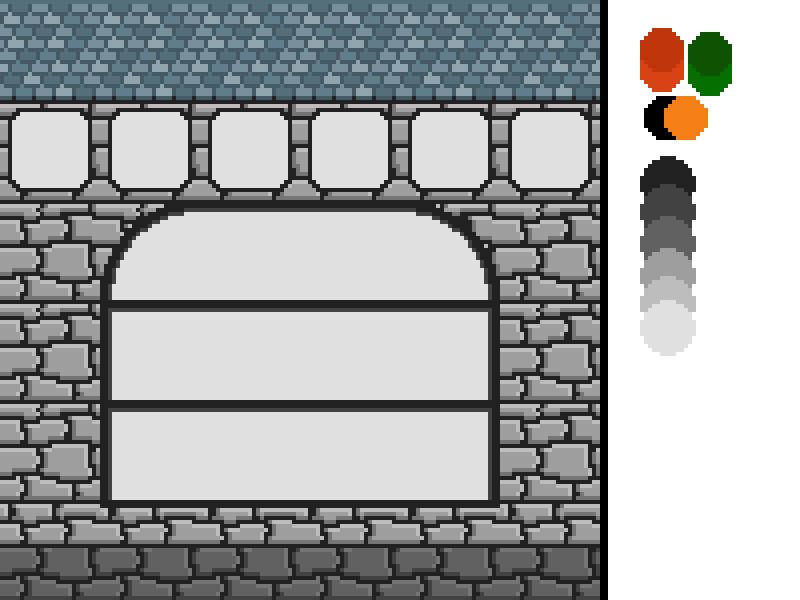
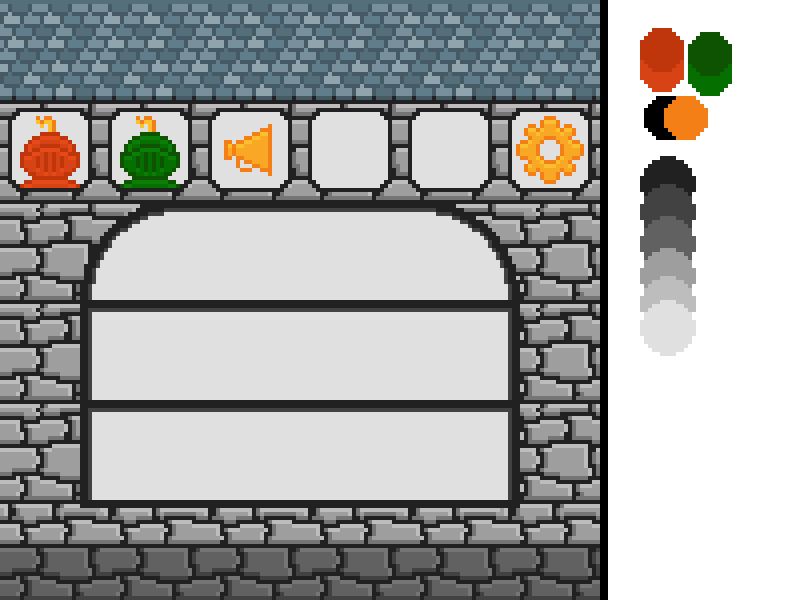
making menu
make
icons for menu
show version of game

revork
PlayButton (pre wersion)

diff --git a/core/Game.py b/core/Game.py
@@ -18,6 +18,22 @@ class Game:
         pygame.display.set_caption(params["app_name"])
         pygame.display.set_icon(pygame.image.load(params["app_icon"]))
 
+        # colors
+        """
+        yellow
+        (245, 127, 23)
+        (249, 168, 37)
+        (251, 192, 45)
+        red
+        (191, 54, 12)
+        (216, 67, 21)
+        (230, 74, 25)
+        green
+        (13, 83, 2)
+        (5, 111, 0)
+        (10, 126, 7)
+        """
+
         # font
         # cell   1  2   3   4   5   6  px
         # sizes (9, 17, 25, 33, 41, 50)
@@ -45,12 +61,13 @@ class Game:
         }
         self.window = None
         self.open_window(params["start_window"])
-
+        self.text_version = self.render_text('0.1.5 Alpha', (249, 168, 37), True)
         # server
-        self.client = Client(set_random_nickname(), params["online_host_ip"], params["online_host_port"], self)
-        self.client.run()
+        # self.client = Client(set_random_nickname(), params["online_host_ip"], params["online_host_port"], self)
+        # self.client.run()
 
     def run(self):
+
         while self.running:
             # eval delta time
             self.delta = (pygame.time.get_ticks() - self.last_time) / 1000.0
@@ -67,6 +84,10 @@ class Game:
             self.window.fixed_update()
             self.screen.fill((20, 20, 50))
             self.window.draw()
+            pygame.draw.rect(self.screen, (97,)*3, ((8, 600 - self.text_version.get_height() - 12),
+                                                         (self.text_version.get_width() + 6,
+                                                          self.text_version.get_height() + 4)))
+            self.screen.blit(self.text_version, (10, 600 - self.text_version.get_height() - 10))
             # if flip screen mode
             if self.is_flip_screen:
                 pygame.display.flip()

diff --git a/core/UI/PlayButton.py b/core/UI/PlayButton.py
@@ -1,12 +1,32 @@
+import pygame
 from Source.settings import params
-from core.UI.TextButton import TextButton
+from core.UI.Button import Button
+from core.textures.Tileset import TileSet
 
 
-class PlayButton(TextButton):
+def create_tile_set(game, text):
+    rendered_text = game.render_text(text, (251, 192, 45), False)
+    rendered_back_text = game.render_text(text, (249, 168, 37), False)
+    surface = pygame.Surface((rendered_text.get_width(), 180))
+    surface.set_colorkey((0, 0, 0))
+    surface.blit(rendered_text,      (-3, 0))
+    surface.blit(rendered_back_text, (-3, 4))
+    surface.blit(rendered_text,      (-3, 62))
+    surface.blit(rendered_back_text, (-3, 64))
+    surface.blit(rendered_text,      (-3, 124))
+    return TileSet(surface, (rendered_text.get_width(), 60))
+
+
+class PlayButton(Button):
     def __init__(self, window, pos, text, open_window, settings):
-        super().__init__(window, pos, text)
+        super().__init__(window, pos, create_tile_set(window.game, text), size=[400, 100])
         self.open_window = open_window
         self.settings = settings
+
+    def draw(self, pos=(0, 0)):
+        tmp = list(map(lambda x: (x[0] - x[1]) / 2, zip(self.get_size(), self.image.get_size())))
+        pos = [tmp[0] + pos[0], tmp[1] + pos[1]]
+        super().draw(pos)
 
     def on_click(self):
         for key, val in self.settings.items():

diff --git a/core/windows/MainMenuWindow.py b/core/windows/MainMenuWindow.py
@@ -15,11 +15,11 @@ class MainMenuWindow(Window):
         self.button = ChangeWindowButton(self, (500, 0), TileSet('settings4', (100, 100)), "Game")
 
         self.buttons = [
-            # PlayButton(self, (10, 190), "онлайн", "Game", {"mode": "online"}),
-            # PlayButton(self, (10, 260), "офлайн", "Game", {"mode": "offline"}),
-            # PlayButton(self, (10, 330), "туман войны", "Game", {"mode": "fog of war"}),
-            AnimatedTorch(self, (0, 300)),
-            AnimatedTorch(self, (500, 300)),
+            PlayButton(self, (100, 200), "онлайн", "Game", {"mode": "online"}),
+            PlayButton(self, (100, 300), "офлайн", "Game", {"mode": "offline"}),
+            PlayButton(self, (100, 400), "туман войны", "Game", {"mode": "fog of war"}),
+            AnimatedTorch(self, (-10, 300)),
+            AnimatedTorch(self, (510, 300)),
         ]
 
     def check_hover(self, event):

diff --git a/core/UI/Button.py b/core/UI/Button.py
@@ -4,8 +4,8 @@ from core.UI.BaseUI import BaseUI
 
 
 class Button(BaseUI):
-    def __init__(self, window, pos, tile_set, frames):
-        super().__init__(window, pos, image=tile_set[frames[0]])
+    def __init__(self, window, pos, tile_set, frames=(0, 1, 2), **kwargs):
+        super().__init__(window, pos, image=tile_set[frames[0]], **kwargs)
         self.tile_set = tile_set
         self.frames = frames  # 0 - default, 1 - hovered, 2 - clicked
         self.pressed = False
